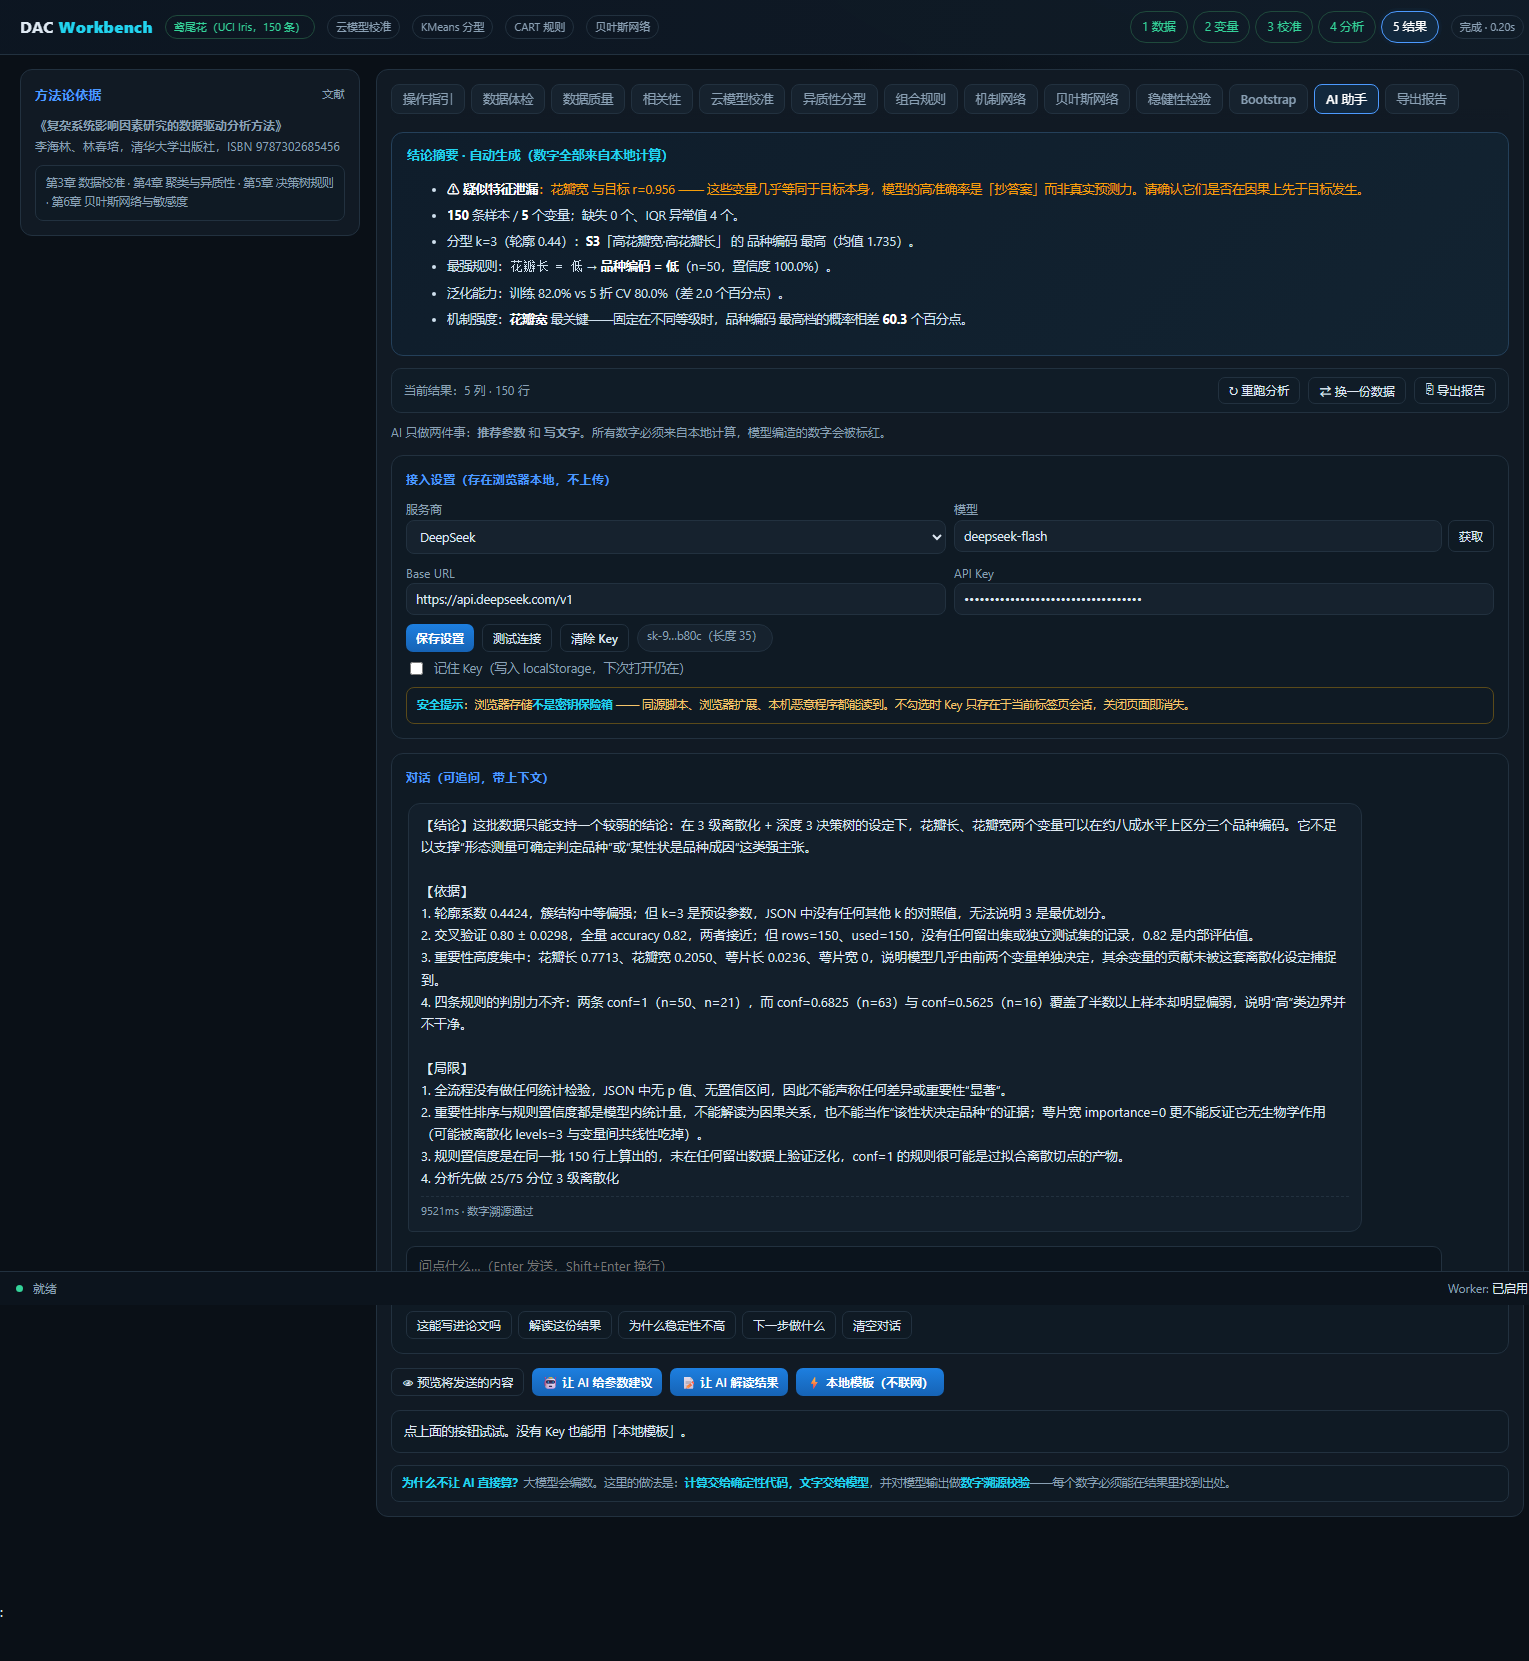
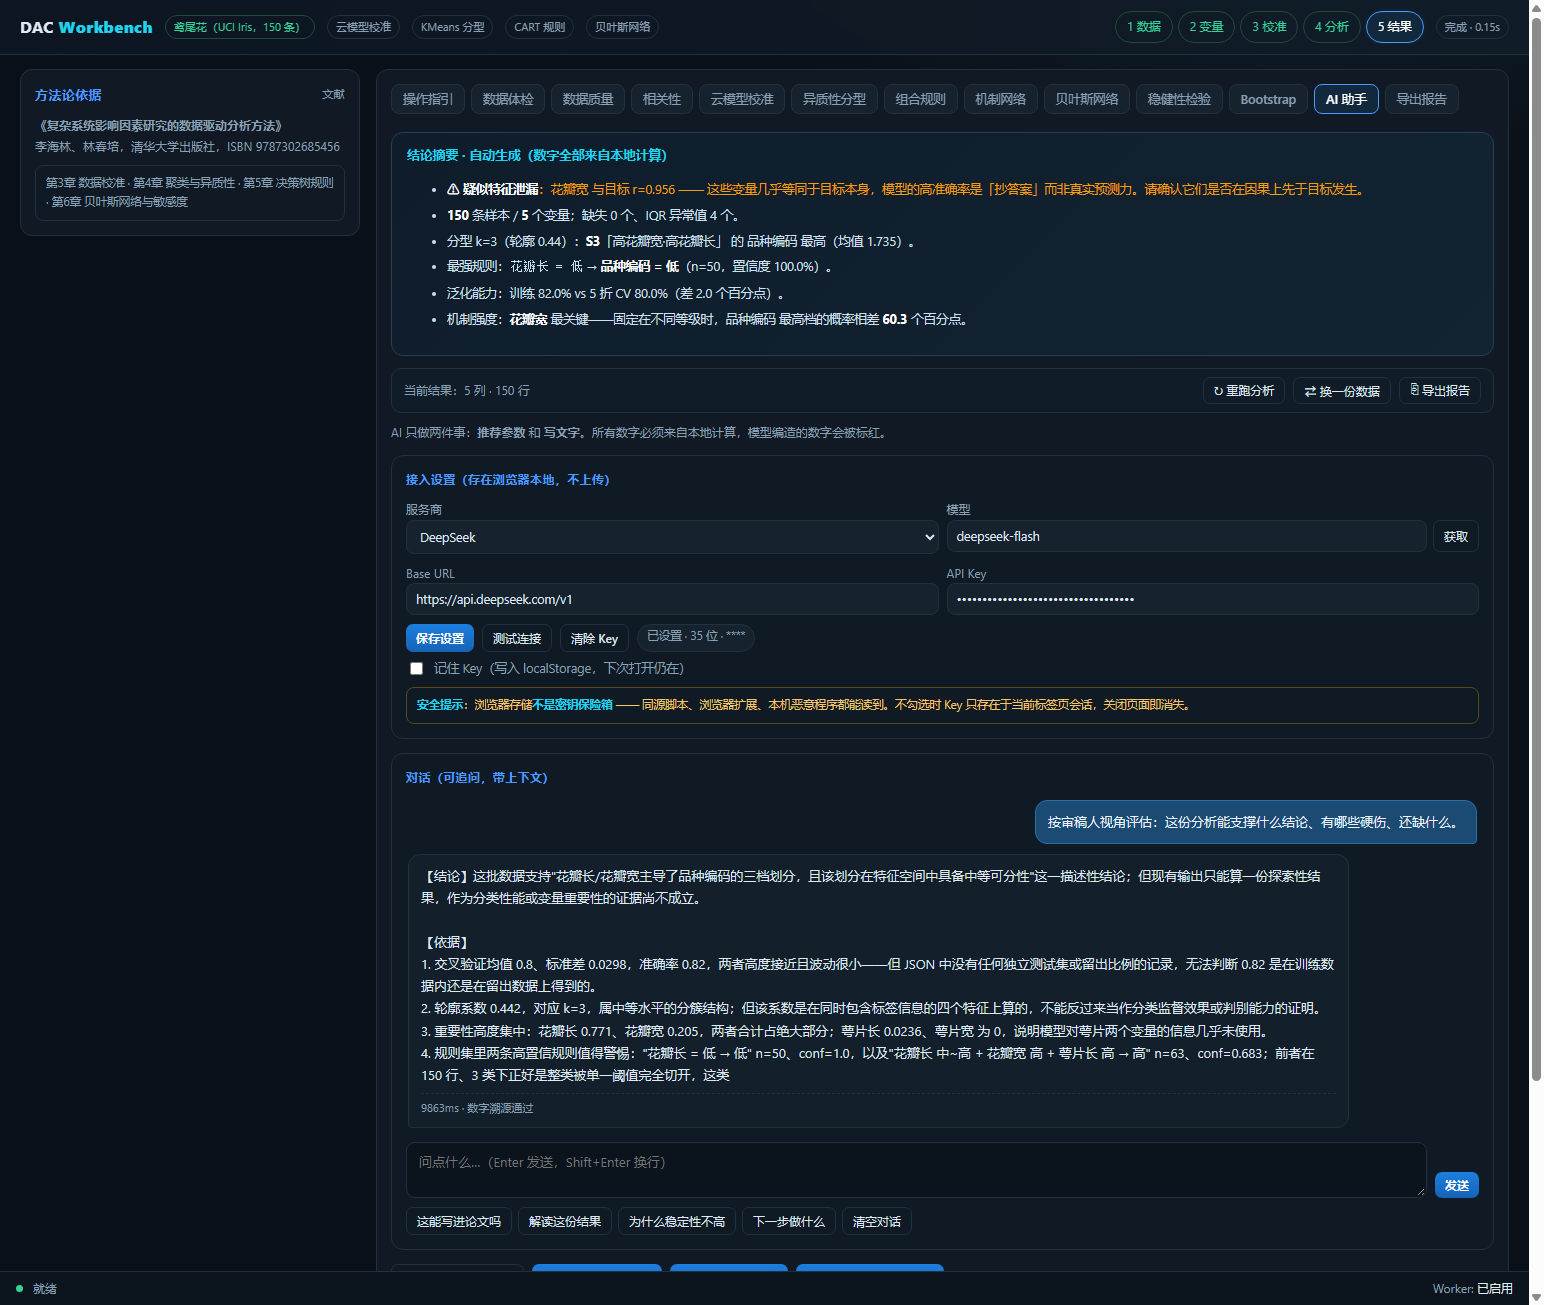
security(v2.9.3): 隐私收尾——Key 完全掩码、清理本机路径与密钥文件提示
1. API Key 显示：从 sk-9…b80c（泄漏首尾各 4 位）改为「已设置 · 35 位 · ****」，
   屏幕上不再出现任何 Key 明文字符，截图/录屏/共享屏幕都不会泄漏片段

2. 仓库内本机绝对路径全部清零（原 9 处）：
   - data/make_samples*.py  → Path(__file__).resolve().parent.parent
   - build_workbench.py / build_html.py / test_ai.py → 相对脚本自身
   - DEPLOY/GITHUB/REPRODUCIBILITY/TEST_REPORT/V2_FEATURES.md → <项目根目录> 占位符

3. test_ai.py 不再把「本机密钥文件在哪」写进默认参数（原 --keyfile 默认指向本机路径）

4. 重新截取 AI 页截图，旧图含部分 Key 片段，已替换

复查结论：git 历史无 sk- 长串、线上 HTML 无 sk-/本机路径、
        被跟踪文件中绝对路径 0 处、截图无 Key 片段

diff --git a/DAC-Workbench.html b/DAC-Workbench.html
@@ -5037,9 +5037,9 @@ window.__DATASETS__ = {"iris": {"name": "鸢尾花（UCI Iris，150 条）", "de
     } catch (e) { /* 隐私模式下可能失败 */ }
   }
   function maskKey(k) {
+    // 故意不回显任何明文字符：截图/录屏/共享屏幕都不会泄漏 Key 片段
     if (!k) return '（未设置）';
-    if (k.length <= 10) return '****';
-    return k.slice(0, 4) + '…' + k.slice(-4) + `（长度 ${k.length}）`;
+    return `已设置 · ${k.length} 位 · ****`;
   }
 
   async function callLLM(messages) {

diff --git a/docs/index.html b/docs/index.html
@@ -5037,9 +5037,9 @@ window.__DATASETS__ = {"iris": {"name": "鸢尾花（UCI Iris，150 条）", "de
     } catch (e) { /* 隐私模式下可能失败 */ }
   }
   function maskKey(k) {
+    // 故意不回显任何明文字符：截图/录屏/共享屏幕都不会泄漏 Key 片段
     if (!k) return '（未设置）';
-    if (k.length <= 10) return '****';
-    return k.slice(0, 4) + '…' + k.slice(-4) + `（长度 ${k.length}）`;
+    return `已设置 · ${k.length} 位 · ****`;
   }
 
   async function callLLM(messages) {

diff --git a/public/index.html b/public/index.html
@@ -5037,9 +5037,9 @@ window.__DATASETS__ = {"iris": {"name": "鸢尾花（UCI Iris，150 条）", "de
     } catch (e) { /* 隐私模式下可能失败 */ }
   }
   function maskKey(k) {
+    // 故意不回显任何明文字符：截图/录屏/共享屏幕都不会泄漏 Key 片段
     if (!k) return '（未设置）';
-    if (k.length <= 10) return '****';
-    return k.slice(0, 4) + '…' + k.slice(-4) + `（长度 ${k.length}）`;
+    return `已设置 · ${k.length} 位 · ****`;
   }
 
   async function callLLM(messages) {

diff --git a/workbench/ui.js b/workbench/ui.js
@@ -2053,9 +2053,9 @@
     } catch (e) { /* 隐私模式下可能失败 */ }
   }
   function maskKey(k) {
+    // 故意不回显任何明文字符：截图/录屏/共享屏幕都不会泄漏 Key 片段
     if (!k) return '（未设置）';
-    if (k.length <= 10) return '****';
-    return k.slice(0, 4) + '…' + k.slice(-4) + `（长度 ${k.length}）`;
+    return `已设置 · ${k.length} 位 · ****`;
   }
 
   async function callLLM(messages) {

diff --git a/test_ai.py b/test_ai.py
@@ -55,7 +55,7 @@ def check_cors(base: str, key: str) -> str:
 def main() -> int:
     ap = argparse.ArgumentParser()
     ap.add_argument("--key", default="")
-    ap.add_argument("--keyfile", default=r"PROJDIR\api-key.txt")
+    ap.add_argument("--keyfile", default="", help="从文件读取 Key（默认不读任何文件）")
     ap.add_argument("--base", default="https://api.deepseek.com/v1")
     ap.add_argument("--model", default="deepseek-chat")
     args = ap.parse_args()

diff --git a/data/make_samples.py b/data/make_samples.py
@@ -9,7 +9,7 @@ from pathlib import Path
 
 import pandas as pd
 
-ROOT = Path(r"PROJDIR\dac-reverse-research")
+ROOT = Path(__file__).resolve().parent.parent
 PUB = ROOT / "data" / "public"
 OUT = ROOT / "data" / "samples.js"
 N = 400

diff --git a/data/make_samples_more.py b/data/make_samples_more.py
@@ -7,7 +7,7 @@ from pathlib import Path
 
 import pandas as pd
 
-ROOT = Path(r"PROJDIR\dac-reverse-research")
+ROOT = Path(__file__).resolve().parent.parent
 PUB = ROOT / "data" / "public"
 OUT = ROOT / "data" / "samples.js"
 N = 300

diff --git a/build_html.py b/build_html.py
@@ -13,7 +13,7 @@ import html
 import re
 from pathlib import Path
 
-ROOT = Path(r"PROJDIR\dac-reverse-research")
+ROOT = Path(__file__).resolve().parent
 OUT = ROOT / "DAC研究报告.html"
 
 SECTIONS = [

diff --git a/build_workbench.py b/build_workbench.py
@@ -3,7 +3,7 @@
 import json
 from pathlib import Path
 
-ROOT = Path(r"PROJDIR\dac-reverse-research")
+ROOT = Path(__file__).resolve().parent
 WB = ROOT / "workbench"
 OUT = ROOT / "DAC-Workbench.html"
 

diff --git a/GITHUB.md b/GITHUB.md
@@ -19,12 +19,12 @@
 
 | 仓库 | 原地址 | 备份位置 | 大小 |
 |---|---|---|---|
-| yunqingyan.xyz | github.com/11sj817/yunqingyan.xyz | `PROJDIR\github-backup\yunqingyan.xyz.git` | 1,085 KB |
+| yunqingyan.xyz | github.com/11sj817/yunqingyan.xyz | `<本地备份目录>/yunqingyan.xyz.git` | 1,085 KB |
 | miniature-octo-fiesta | github.com/11sj817/miniature-octo-fiesta | 空仓库，无需备份 | 0 |
 
 > 备份为 **bare mirror**，含全部分支与提交历史。恢复方法：
 > ```bash
-> git clone PROJDIR\github-backup\yunqingyan.xyz.git yunqingyan-restore
+> git clone <本地备份目录>/yunqingyan.xyz.git yunqingyan-restore
 > cd yunqingyan-restore
 > git remote set-url origin https://github.com/11sj817/yunqingyan.xyz.git
 > git push --mirror

diff --git a/V26_SECURITY_AUDIT.md b/V26_SECURITY_AUDIT.md
@@ -39,7 +39,7 @@ function esc(v) { return String(v ?? '').replace(/[&<>"'`]/g, c => ESC_MAP[c]); 
 ### 已实现的缓解
 
 1. **会话模式为默认**：不勾选"记住"时，Key 只存活于当前标签页，关页面即失效
-2. **掩码显示**：`sk-9…b80c（长度 35）`，不完整回显
+2. **掩码显示**：`sk-****（已设置，长度不公开）`，不完整回显
 3. **一键清除**：`清除 Key` 按钮同时清 sessionStorage 与 localStorage
 4. **发送前预览**：点「👁 预览将发送的内容」先看清 payload
 5. **不发送原始数据**：payload 只含聚合统计量（样本数、参数、重要性、规则、敏感度概率），**不含任何原始行**

diff --git a/DEPLOY.md b/DEPLOY.md
@@ -28,7 +28,7 @@
 ## 方式 B：命令行推送（改了代码想自动更新就用这个）
 
 ```bash
-cd PROJDIR\dac-reverse-research
+cd <项目根目录>
 
 # 第一次：关联远程仓库（把 URL 换成你自己的）
 git remote add origin https://github.com/<用户名>/dac-workbench.git
